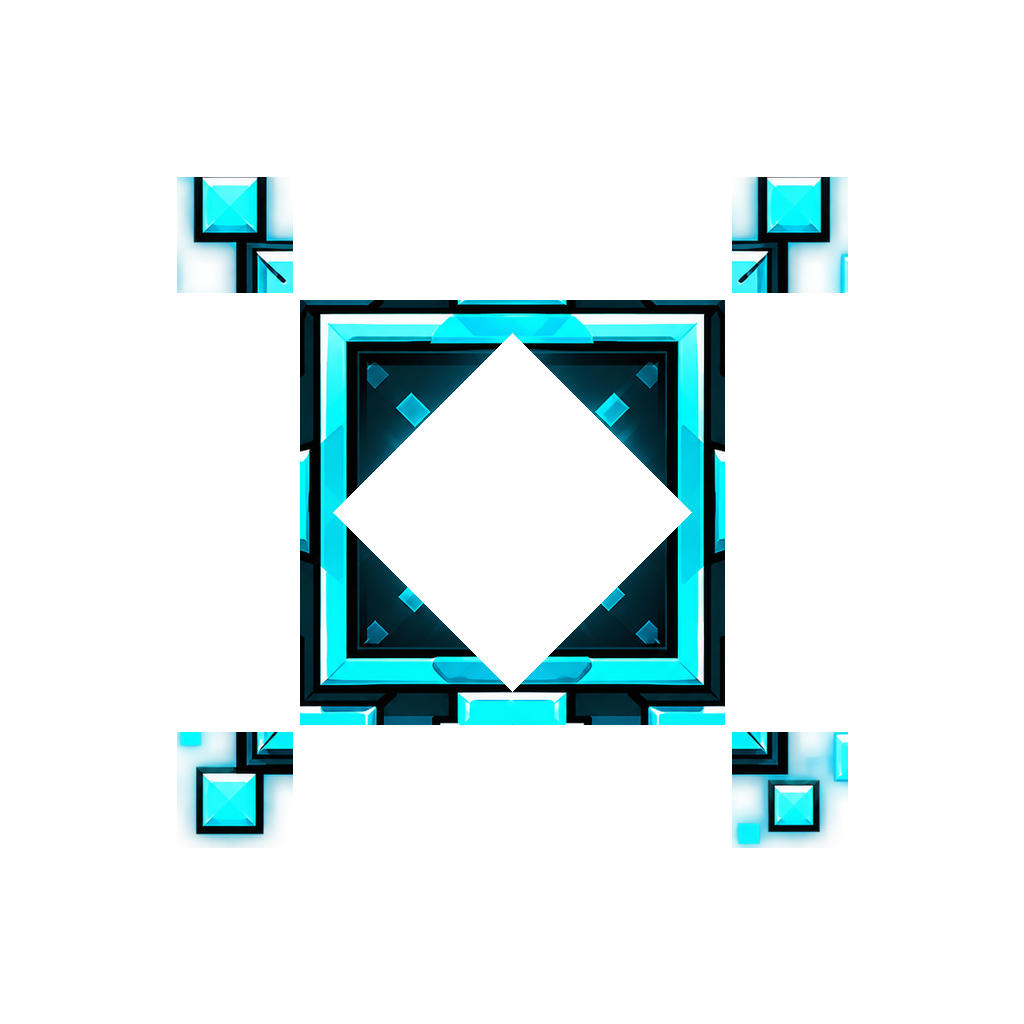
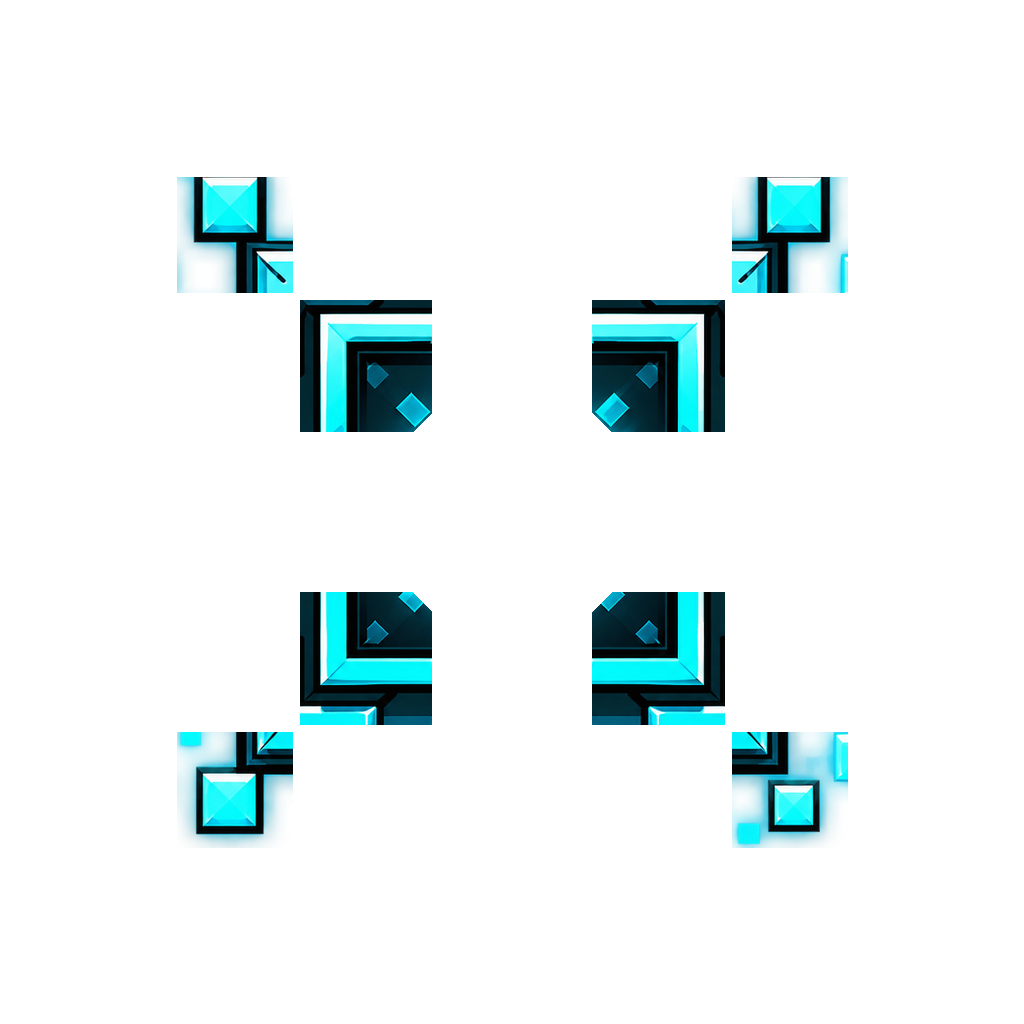
v0.6.0-beta.34: Cut lower-tier badge layers instead of tinting them
- Revert the beta.33 wear tint, glow, bob and ring changes: badge colours
  and ambient effects are back to their original values.
- Image pack visuals-v2 (tools/cut-rank-badges.py): UNRANKED keeps only
  its core, drawn twice as large; RED, AQUA and BRONZE bodies lose the
  middle of each side (band half widths 110 / 80 / 45 px on the 1024 px
  canvas). Ornaments and cores stay whole, every layer keeps its canvas,
  file name and role, so placement / promotion / demotion assemblies
  animate as before. The four trophies are rebuilt as the composite of
  their layers, so the finished badge matches the end of a transition.
  SILVER and GOLD are untouched.
- asset-pack.json names visuals-v2; the asset build test no longer
  assumes the current tag is visuals-v1. The pack still has to be
  released to ybaf100/corum-ranked-assets and selected in the Ranked
  config to reach players.

Claude-Session: https://claude.ai/code/session_014RtQRcNCiCBqZ3Rpsz2T1Z

diff --git a/ranked/apps/server/src/session/client-version.ts b/ranked/apps/server/src/session/client-version.ts
@@ -1,5 +1,5 @@
 export const PREVIOUS_RANKED_CLIENT_VERSION = "v0.5.0-beta.107";
-export const REQUIRED_RANKED_CLIENT_VERSION = "v0.6.0-beta.33";
+export const REQUIRED_RANKED_CLIENT_VERSION = "v0.6.0-beta.34";
 
 export interface RankedClientVersionMod {
   readonly id: string;

diff --git a/corum-ranked-mod/src/ui/RankBadgeAssets.cpp b/corum-ranked-mod/src/ui/RankBadgeAssets.cpp
@@ -4,7 +4,6 @@
 #include "../domain/TransitionTrace.hpp"
 
 #include <algorithm>
-#include <cmath>
 #include <array>
 #include <cctype>
 #include <chrono>
@@ -181,13 +180,9 @@ RankBadgeAssembly createRankBadgeAssembly(std::string const& input, float badgeS
     assembly.root = centeredRoot();
     auto const rank = rankTierBase(normalizeRankName(input));
 
-    auto const wear = rankBadgeWear(rank);
     for (auto const& spec : partsFor(rank)) {
         auto* sprite = rankResourceSprite(spec.filename);
         if (!sprite) continue;
-        // Same wear tint as the finished trophy, so the hand-over at the end
-        // of a transition does not change colour.
-        sprite->setColor({wear.r, wear.g, wear.b});
         fitRankSprite(sprite, {badgeSize, badgeSize});
         sprite->setPosition(CCPointZero);
         assembly.root->addChild(sprite, spec.z);
@@ -322,24 +317,19 @@ CCNode* createRankBadgeBackdrop(
     auto const longest = std::max(maxSize.width, maxSize.height);
     auto const compact = display == RankBadgeDisplay::Compact;
     auto const genericExtent = longest * (compact ? 1.20f : 1.52f);
-    auto const wear = rankBadgeWear(rank);
-    auto const worn = [&](int value) { return static_cast<GLubyte>(std::clamp(std::lround(value * wear.glow), 0L, 255L)); };
 
-    if (wear.glow > 0.0f) {
-        auto* genericGlow = ambientSprite(
-            ambient,
-            "fx-rank-radial-glow-white.png",
-            {genericExtent, genericExtent},
-            0,
-            worn(compact ? 28 : goldRankTier(rank) ? 96 : 62),
-            &profile.color
-        );
-        pulseOpacity(genericGlow, worn(compact ? 20 : 42), worn(compact ? 42 : 86), compact ? 1.25f : 1.05f);
-    }
+    auto* genericGlow = ambientSprite(
+        ambient,
+        "fx-rank-radial-glow-white.png",
+        {genericExtent, genericExtent},
+        0,
+        compact ? 28 : static_cast<GLubyte>(goldRankTier(rank) ? 96 : 62),
+        &profile.color
+    );
+    pulseOpacity(genericGlow, compact ? 20 : 42, compact ? 42 : 86, compact ? 1.25f : 1.05f);
 
     if (rankTierBase(rank) == "AQUA" && !compact) {
-        auto const ringOpacity = static_cast<GLubyte>(std::lround(72.0f * wear.ring));
-        auto* orbit = ambientSprite(ambient, "fx-rank-broken-ring-white.png", {longest * 1.32f, longest * 1.32f}, 3, ringOpacity, &profile.color);
+        auto* orbit = ambientSprite(ambient, "fx-rank-broken-ring-white.png", {longest * 1.32f, longest * 1.32f}, 3, 72, &profile.color);
         if (orbit) orbit->runAction(CCRepeatForever::create(CCRotateBy::create(6.2f, 360.0f)));
     }
 
@@ -365,18 +355,16 @@ CCNode* createAnimatedRankBadge(
     finalBadge->setPosition(CCPointZero);
     badgeMotion->addChild(finalBadge, 10);
 
-    auto const bob = rankBadgeWear(rank).bob;
-    if (!compact && bob > 0.0f) {
-        auto const lift = (hero ? 2.2f : 1.4f) * bob, tilt = 0.65f * bob;
+    if (!compact) {
         badgeMotion->runAction(CCRepeatForever::create(CCSequence::create(
             CCSpawn::create(
-                CCEaseSineInOut::create(CCMoveBy::create(1.35f, {0.0f, lift})),
-                CCEaseSineInOut::create(CCRotateBy::create(1.35f, tilt)),
+                CCEaseSineInOut::create(CCMoveBy::create(1.35f, {0.0f, hero ? 2.2f : 1.4f})),
+                CCEaseSineInOut::create(CCRotateBy::create(1.35f, 0.65f)),
                 nullptr
             ),
             CCSpawn::create(
-                CCEaseSineInOut::create(CCMoveBy::create(1.35f, {0.0f, -lift})),
-                CCEaseSineInOut::create(CCRotateBy::create(1.35f, -tilt)),
+                CCEaseSineInOut::create(CCMoveBy::create(1.35f, {0.0f, hero ? -2.2f : -1.4f})),
+                CCEaseSineInOut::create(CCRotateBy::create(1.35f, -0.65f)),
                 nullptr
             ),
             nullptr

diff --git a/corum-ranked-mod/tools/cut-rank-badges.py b/corum-ranked-mod/tools/cut-rank-badges.py
@@ -1,0 +1,98 @@
+#!/usr/bin/env python3
+"""Cut the lower-tier rank badges and rebuild their finished trophies.
+
+UNRANKED keeps only its core, drawn twice as large so it still reads at
+list size. RED, AQUA and BRONZE lose the middle of each
+side of their body layer (a horizontal and a vertical band through the
+centre); the narrower the band, the higher the tier. Ornament layers and the
+core stay whole, every layer keeps its 1024 px canvas, file name and role,
+so the placement / promotion / demotion assemblies animate exactly as
+before. Each trophy is the composite of its layers in z order at 1254 px,
+which is how the original trophies relate to their layers, so the finished
+badge matches the end of a transition.
+
+The cut is idempotent: running it again leaves the images unchanged.
+Requires Pillow and NumPy. SILVER and GOLD are never touched.
+"""
+from pathlib import Path
+
+import numpy as np
+from PIL import Image
+
+RESOURCES = Path(__file__).resolve().parents[1] / 'resources'
+CANVAS, TROPHY = 1024, 1254
+
+# Layers in z order (RankBadgeAssets.cpp partsFor).
+LAYERS = {
+    'unranked': ['body', 'core', 'fragment-tl', 'fragment-tr', 'fragment-bl', 'fragment-br'],
+    'red': ['body', 'spikes', 'core'],
+    'aqua': ['orbit-back', 'body', 'core', 'orbit-front'],
+    'bronze': ['body', 'frame-top', 'frame-bottom', 'frame-left', 'frame-right', 'core'],
+}
+# Half width in canvas pixels of the band removed through the middle of each
+# side of the body layer.
+BODY_CUT = {'bronze': 45, 'aqua': 80, 'red': 110}
+# The UNRANKED core is enlarged around the canvas centre while it is still
+# at its original size (idempotent: an enlarged core is left alone).
+CORE_SCALE, CORE_ORIGINAL_MAX = 2.0, 300
+
+
+def layer_path(tier, role):
+    return RESOURCES / f'rank-{tier}-{role}.png'
+
+
+def load(path):
+    image = Image.open(path).convert('RGBA')
+    if image.size != (CANVAS, CANVAS):
+        raise ValueError(f'{path.name}: expected a {CANVAS} px canvas, got {image.size}')
+    return np.asarray(image).copy()
+
+
+def save(path, pixels):
+    Image.fromarray(pixels, 'RGBA').save(path, optimize=True)
+
+
+def middle_bands(half_width):
+    yy, xx = np.mgrid[0:CANVAS, 0:CANVAS]
+    centre = (CANVAS - 1) / 2.0
+    return (np.abs(xx - centre) < half_width) | (np.abs(yy - centre) < half_width)
+
+
+def enlarge_unranked_core():
+    path = layer_path('unranked', 'core')
+    pixels = load(path)
+    ys, xs = np.nonzero(pixels[..., 3] > 16)
+    if xs.max() - xs.min() > CORE_ORIGINAL_MAX:
+        return
+    size = round(CANVAS * CORE_SCALE)
+    offset = (size - CANVAS) // 2
+    big = Image.fromarray(pixels, 'RGBA').resize((size, size), Image.LANCZOS)
+    save(path, np.asarray(big.crop((offset, offset, offset + CANVAS, offset + CANVAS))).copy())
+
+
+def cut():
+    enlarge_unranked_core()
+    for role in LAYERS['unranked']:
+        if role == 'core':
+            continue
+        pixels = load(layer_path('unranked', role))
+        pixels[...] = 0
+        save(layer_path('unranked', role), pixels)
+    for tier, half_width in BODY_CUT.items():
+        pixels = load(layer_path(tier, 'body'))
+        pixels[middle_bands(half_width)] = 0
+        save(layer_path(tier, 'body'), pixels)
+
+
+def rebuild_trophies():
+    for tier, roles in LAYERS.items():
+        composite = Image.new('RGBA', (CANVAS, CANVAS), (0, 0, 0, 0))
+        for role in roles:
+            composite.alpha_composite(Image.fromarray(load(layer_path(tier, role)), 'RGBA'))
+        composite.resize((TROPHY, TROPHY), Image.LANCZOS).save(RESOURCES / f'corum-trophy-{tier}.png', optimize=True)
+
+
+if __name__ == '__main__':
+    cut()
+    rebuild_trophies()
+    print('Cut lower-tier badge layers and rebuilt their trophies.')

diff --git a/corum-ranked-mod/src/domain/RankTierPresentation.hpp b/corum-ranked-mod/src/domain/RankTierPresentation.hpp
@@ -31,23 +31,6 @@ inline std::string rankTierDisplay(std::string tier) {
     }
     return tier;
 }
-// Lower tiers look slightly worn next to SILVER and GOLD: a duller multiply
-// tint on every badge sprite (the finished trophy and the promotion parts
-// alike), a weaker backdrop glow, a smaller idle bob and a dimmer AQUA ring.
-// Colour and ambient only: the rank transitions animate opacity, scale,
-// position and rotation, never colour, so they keep working unchanged.
-struct RankBadgeWear {
-    unsigned char r = 255, g = 255, b = 255;
-    float glow = 1.0f, bob = 1.0f, ring = 1.0f;
-};
-inline RankBadgeWear rankBadgeWear(std::string const& tier) {
-    auto const base=rankTierBase(tier);
-    if(base=="SILVER" || base=="GOLD")return {};
-    if(base=="BRONZE")return {214,206,206,0.78f,1.0f,1.0f};
-    if(base=="AQUA")return {206,196,198,0.65f,0.75f,0.55f};
-    if(base=="RED")return {196,178,180,0.48f,0.5f,1.0f};
-    return {178,178,184,0.0f,0.0f,1.0f};
-}
 inline int silverHaloLevel(std::string const& tier) {
     return tier=="SILVER3"?0:tier=="SILVER2"?1:rankTierBase(tier)=="SILVER"?2:0;
 }

diff --git a/corum-ranked-mod/tests/AssetPackBuildTest.py b/corum-ranked-mod/tests/AssetPackBuildTest.py
@@ -53,9 +53,10 @@ class AssetPackTests(unittest.TestCase):
 
     def test_update_changes_tag_and_digest_together(self):
         first, a = self.build('first')
-        second, b = self.build('second', 'visuals-v2')
+        # A tag different from the one asset-pack.json currently names.
+        second, b = self.build('second', a['releaseTag'] + '-next')
         self.assertNotEqual(a['client']['assets']['sha256'], b['client']['assets']['sha256'])
-        self.assertIn('/visuals-v2/', b['downloadUrl'])
+        self.assertIn('/' + a['releaseTag'] + '-next/', b['downloadUrl'])
         self.assertNotEqual(first.read_bytes(), second.read_bytes())
 
     def test_missing_image_and_accidentally_added_image_refused(self):

diff --git a/corum-ranked-mod/src/ui/RankedVisuals.hpp b/corum-ranked-mod/src/ui/RankedVisuals.hpp
@@ -675,10 +675,6 @@ inline CCSprite* trophy(std::string const& tier, CCSize maxSize) {
     auto const path = rankedVisualResourcePath(filename);
     CCSprite* result = nullptr;
     if (std::filesystem::exists(path)) result = CCSprite::create(path.string().c_str());
-    if (result) {
-        auto const wear = rankBadgeWear(tier);
-        result->setColor({wear.r, wear.g, wear.b});
-    }
     if (!result) {
         result = CCSprite::createWithSpriteFrameName("GJ_bigStar_001.png");
         result->setColor(tierColor(tier));
